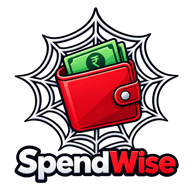
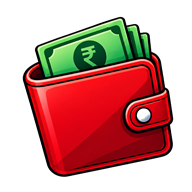
Updated Website

diff --git a/css/style.css b/css/style.css
@@ -179,17 +179,23 @@ button {
 }
 
 .brand-logo-img {
-  max-height: 48px;
-  max-width: 170px;
-  width: auto;
-  height: auto;
+  width: 32px;
+  height: 32px;
   object-fit: contain;
-  filter: drop-shadow(0 2px 6px rgba(0, 0, 0, 0.25));
+  filter: drop-shadow(0 2px 4px rgba(0, 0, 0, 0.25));
   transition: transform 0.2s ease;
+  flex-shrink: 0;
 }
 
 .brand-logo-img:hover {
-  transform: scale(1.03);
+  transform: scale(1.08);
+}
+
+.logo-text {
+  font-size: 1.15rem;
+  font-weight: 700;
+  letter-spacing: -0.02em;
+  color: var(--text-primary);
 }
 
 .mobile-close-btn {

diff --git a/index.html b/index.html
@@ -37,7 +37,8 @@
     <aside class="sidebar" id="sidebar">
       <div class="sidebar-header">
         <div class="logo-container">
-          <img src="icons/spendwise_logo.png" alt="SpendWise Logo" class="brand-logo-img">
+          <img src="icons/spendwise_logo.png" alt="SpendWise Icon" class="brand-logo-img">
+          <span class="logo-text">SpendWise</span>
         </div>
         <button class="mobile-close-btn" id="mobile-close-btn" aria-label="Close navigation">
           <i data-lucide="x"></i>
